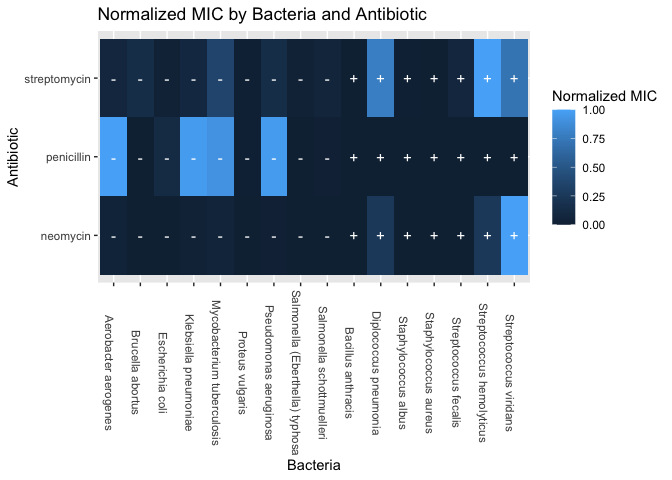
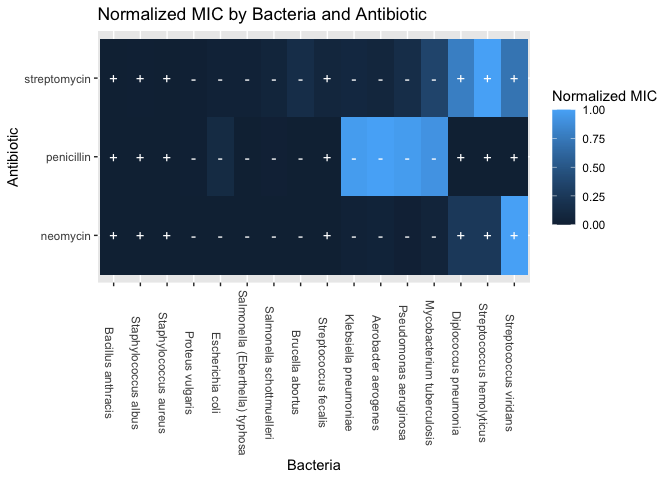
Revise challenges 5 and 12

diff --git a/challenges/c12-policing-assignment.md b/challenges/c12-policing-assignment.md
@@ -319,22 +319,15 @@ It appears that arrest rates are highest for men.
 
 ``` r
 df_data %>%
-  group_by(subject_age, subject_sex) %>%
+  group_by(subject_sex) %>%
   summarize(arrest_rate = mean(arrest_made, na.rm = TRUE), num_obs = n()) %>%
-  ggplot(aes(subject_age, arrest_rate, color = num_obs)) +
-  geom_point() +
-  facet_wrap(~subject_sex) +
-  ggtitle("Subject Age vs. Arrest Rate, MA State Police 2007-2015") +
-  xlab("Subject Age") +
+  ggplot(aes(subject_sex, arrest_rate)) +
+  geom_col() +
+  ggtitle("Subject Sex vs. Arrest Rate, MA State Police 2007-2015") +
+  xlab("Subject Sex") +
   ylab("Arrest Rate") +
   labs(color = "# Observations")
 ```
-
-    ## `summarise()` has grouped output by 'subject_age'. You can override using the
-    ## `.groups` argument.
-
-    ## Warning: Removed 3 rows containing missing values or values outside the scale range
-    ## (`geom_point()`).
 
 ![](c12-policing-assignment_files/figure-gfm/unnamed-chunk-3-1.png)<!-- -->
 
@@ -347,23 +340,14 @@ then white.
 
 ``` r
 df_data %>%
-  group_by(subject_age, subject_race) %>%
+  group_by(subject_race) %>%
   summarize(arrest_rate = mean(arrest_made, na.rm = TRUE), num_obs = n()) %>%
-  ggplot(aes(subject_age, arrest_rate, color = subject_race)) +
-  geom_point() +
-  ylim(0, 0.23) +
-  # facet_wrap(~subject_race, scales = "free") +
-  ggtitle("Subject Age vs. Arrest Rate, MA State Police 2007-2015") +
-  xlab("Subject Age") +
-  ylab("Arrest Rate") +
-  labs(color = "# Observations")
+  ggplot(aes(subject_race, arrest_rate)) +
+  geom_col() +
+  ggtitle("Subject Sex vs. Arrest Rate, MA State Police 2007-2015") +
+  xlab("Subject Sex") +
+  ylab("Arrest Rate")
 ```
-
-    ## `summarise()` has grouped output by 'subject_age'. You can override using the
-    ## `.groups` argument.
-
-    ## Warning: Removed 9 rows containing missing values or values outside the scale range
-    ## (`geom_point()`).
 
 ![](c12-policing-assignment_files/figure-gfm/unnamed-chunk-4-1.png)<!-- -->
 
@@ -407,7 +391,7 @@ fit_q6 %>% tidy()
 - Which `subject_race` levels are included in fitting the model?
   - Only white, black, and hispanic.
 - Which `subject_race` levels have terms in the model?
-  - Only hispanic.
+  - Hispanic and white.
 
 You should find that each factor in the model has a level *missing* in
 its set of terms. This is because R represents factors against a
@@ -441,11 +425,11 @@ fit_q7 <-
   glm(
     formula = arrest_made ~ subject_age + subject_race + subject_sex,
     data = df_data %>%
-      mutate(factor = fct_relevel(subject_race, "white")) %>%
       filter(
         !is.na(arrest_made),
         subject_race %in% c("white", "black", "hispanic")
-      ),
+      ) %>%
+      mutate(factor = fct_relevel(subject_race, "white")),
     family = "binomial"
   )
 
@@ -499,11 +483,11 @@ fit_q8 <-
   glm(
     formula = arrest_made ~ subject_age + subject_race + subject_sex + contraband_found,
     data = df_data %>%
-      mutate(factor = fct_relevel(subject_race, "white")) %>%
       filter(
         !is.na(arrest_made),
         subject_race %in% c("white", "black", "hispanic")
-      ),
+      ) %>%
+      mutate(factor = fct_relevel(subject_race, "white")),
     family = "binomial"
   )
 

diff --git a/challenges/c05-antibiotics-assignment.md b/challenges/c05-antibiotics-assignment.md
@@ -203,16 +203,21 @@ is Gram positive or negative.
 # WRITE YOUR CODE HERE
 df_pivoted %>%
   # group_by(antibiotic) %>%
-  ggplot(aes(x = bacteria, y = value, color = gram)) +
-  geom_point() +
-  facet_wrap(~ antibiotic, scales = "free") +
+  ggplot(aes(x = fct_reorder(bacteria, value), y = value, color = gram, shape = antibiotic)) +
+  geom_point(position = "dodge") +
+  geom_hline(yintercept = 0.1) +
+  # facet_wrap(~ antibiotic, scales = "free") +
   theme(
     axis.text.x = element_text(angle = 270)
   ) +
   ylab("Minimum Inhibitory Concentration (MIC)") +
   xlab("Bacteria") +
+  scale_y_log10() +
   ggtitle("Bacteria vs. Minimum Inhibitory Concentration (MIC) by Antibiotic")
 ```
+
+    ## Warning: Width not defined
+    ## ℹ Set with `position_dodge(width = ...)`
 
 ![](c05-antibiotics-assignment_files/figure-gfm/q1.1-1.png)<!-- -->
 
@@ -229,7 +234,7 @@ your other visuals.
 ``` r
 # WRITE YOUR CODE HERE
 df_pivoted %>%
-  ggplot(aes(x = fct_reorder(bacteria, gram), y = antibiotic, fill = value_norm)) +
+  ggplot(aes(x = fct_reorder(bacteria, value), y = antibiotic, fill = value_norm)) +
   geom_tile() +
   geom_text(aes(label = gram_symbol), color = "white", size = 4) +
   theme(
@@ -258,15 +263,18 @@ df_pivoted %>%
   # filter(
   #   antibiotic == "penicillin"
   # ) %>%
-  ggplot(aes(x = fct_reorder(bacteria, gram), y = value_norm, color = antibiotic, shape = gram)) +
+  ggplot(aes(x = fct_reorder(bacteria, value), y = value_norm, color = antibiotic, shape = gram)) +
   theme(
     axis.text.x = element_text(angle = 270)
   ) +
   geom_point() +
   xlab("Bacteria") +
   ylab("Normalized MIC") +
+  scale_y_log10() +
   ggtitle("Normalized MIC by Bacteria and Antibiotic")
 ```
+
+    ## Warning in scale_y_log10(): log-10 transformation introduced infinite values.
 
 ![](c05-antibiotics-assignment_files/figure-gfm/q1.3-1.png)<!-- -->
 
@@ -286,10 +294,12 @@ df_pivoted %>%
   # filter(
   #   antibiotic == "penicillin"
   # ) %>%
-  ggplot(aes(x = fct_reorder(bacteria, gram), y = value)) +
+  ggplot(aes(x = fct_reorder(bacteria, value), y = value)) +
   geom_col() +
+  geom_hline(yintercept = 0.1) +
   facet_wrap(~ bacteria, scales = "free") +
   ylab("MIC") +
+  scale_y_log10() +
   ggtitle("MIC by Bacteria and Antibiotic") +
   xlab("Bacteria")
 ```
@@ -311,11 +321,12 @@ df_pivoted %>%
   # filter(
   #   antibiotic == "penicillin"
   # ) %>%
-  ggplot(aes(x = bacteria, y = value_norm, color = antibiotic)) +
+  ggplot(aes(x = fct_reorder(bacteria, value), y = value, color = gram)) +
   theme(
     axis.text.x = element_text(angle = 270)
   ) +
   geom_point() +
+  geom_hline(yintercept = 0.1) +
   facet_wrap(~ gram, shrink = TRUE) +
   ylab("Normalized MIC") +
   ggtitle("Normalized MIC by Bacteria and Antibiotic, Separated by Gram") +
